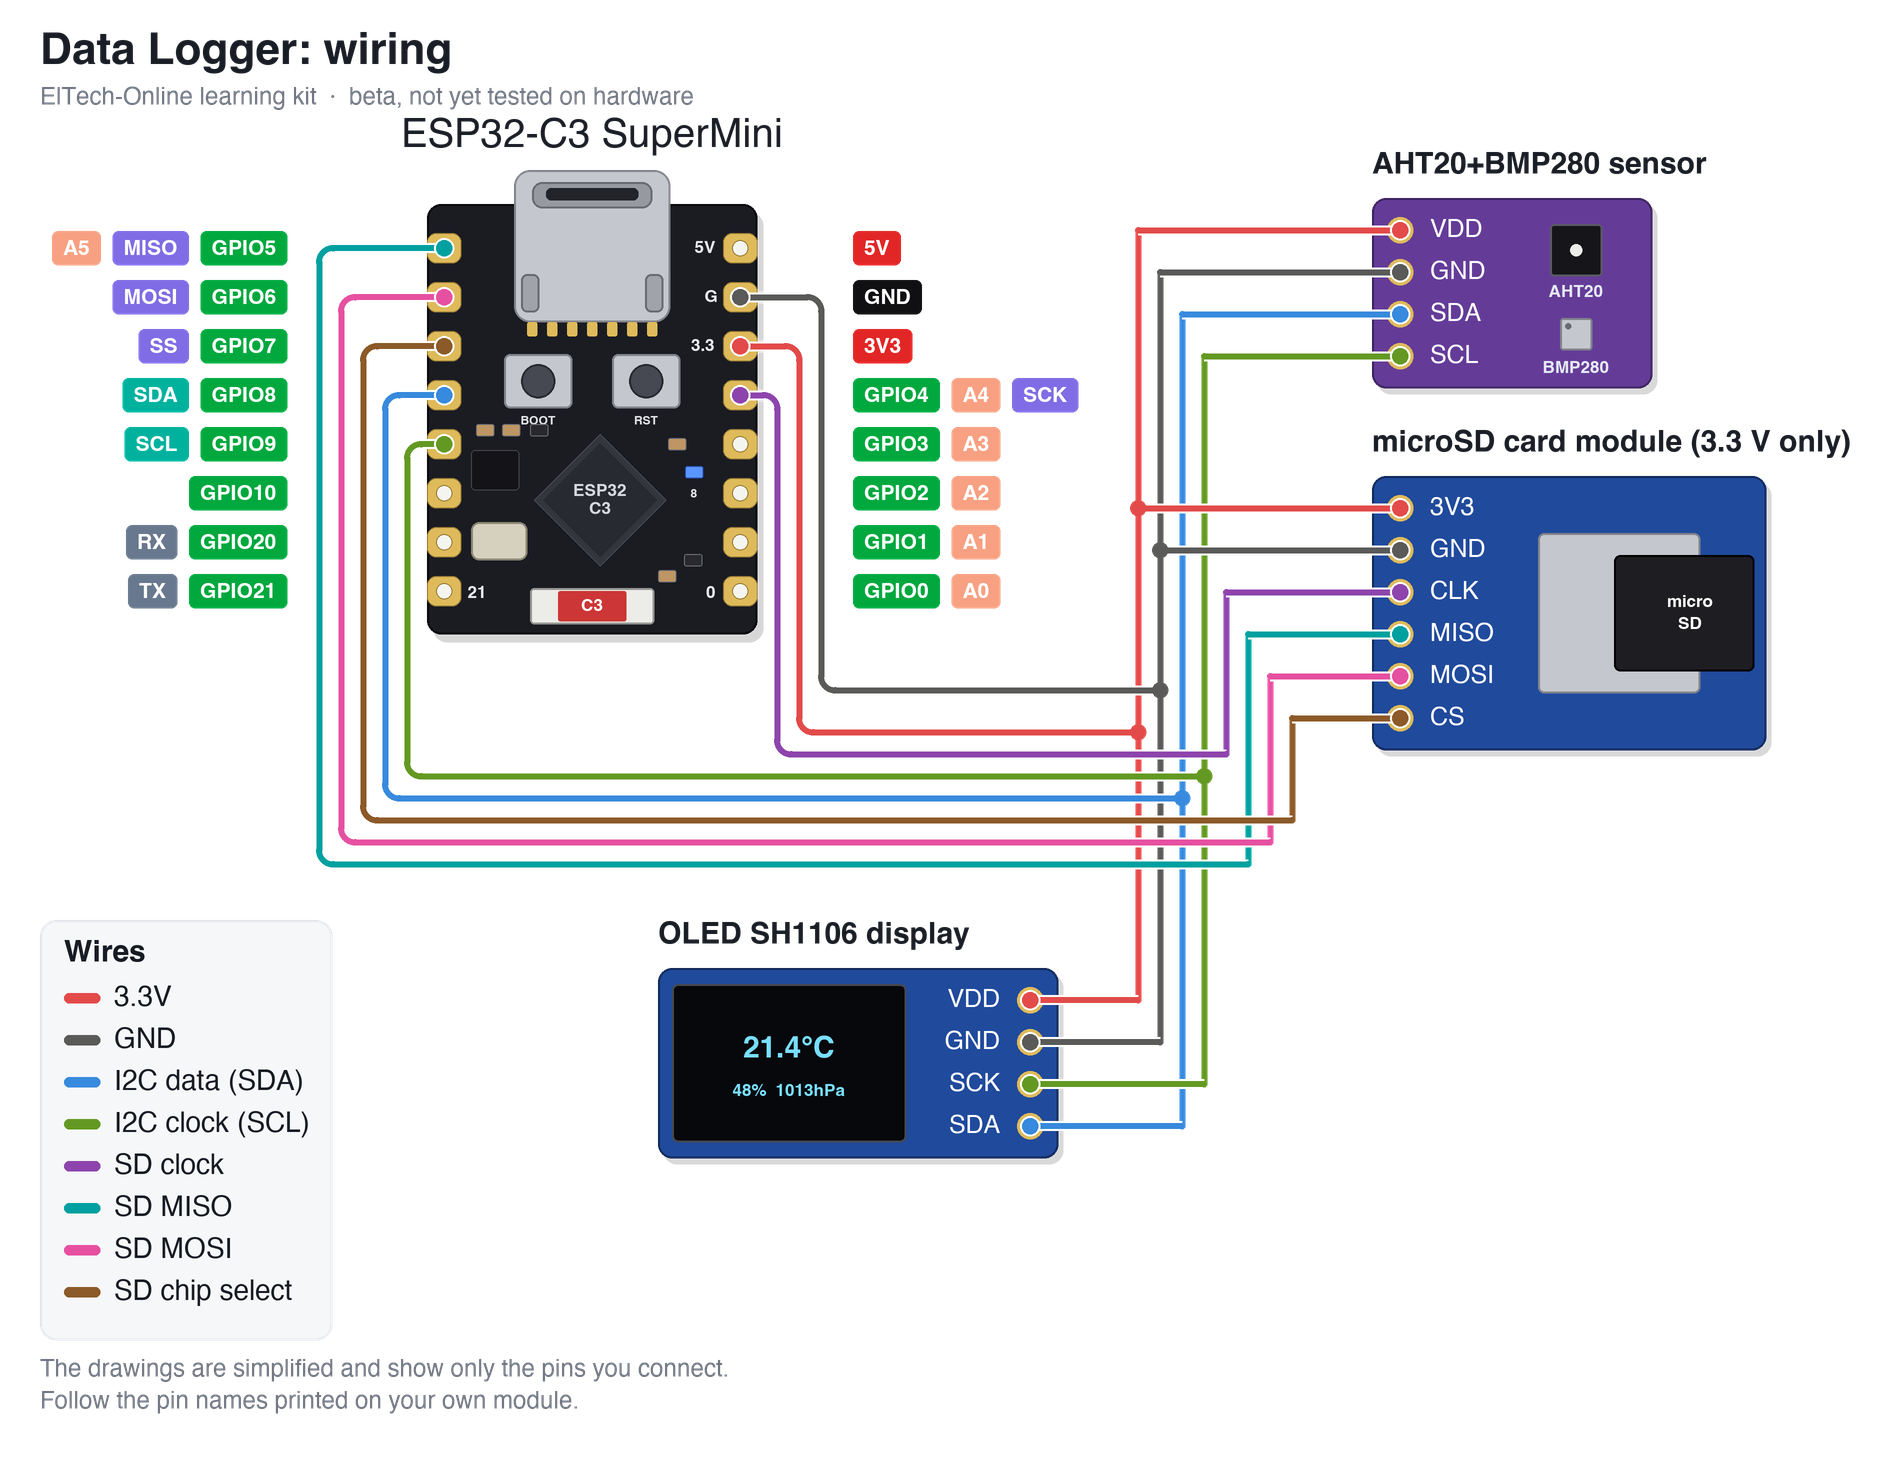
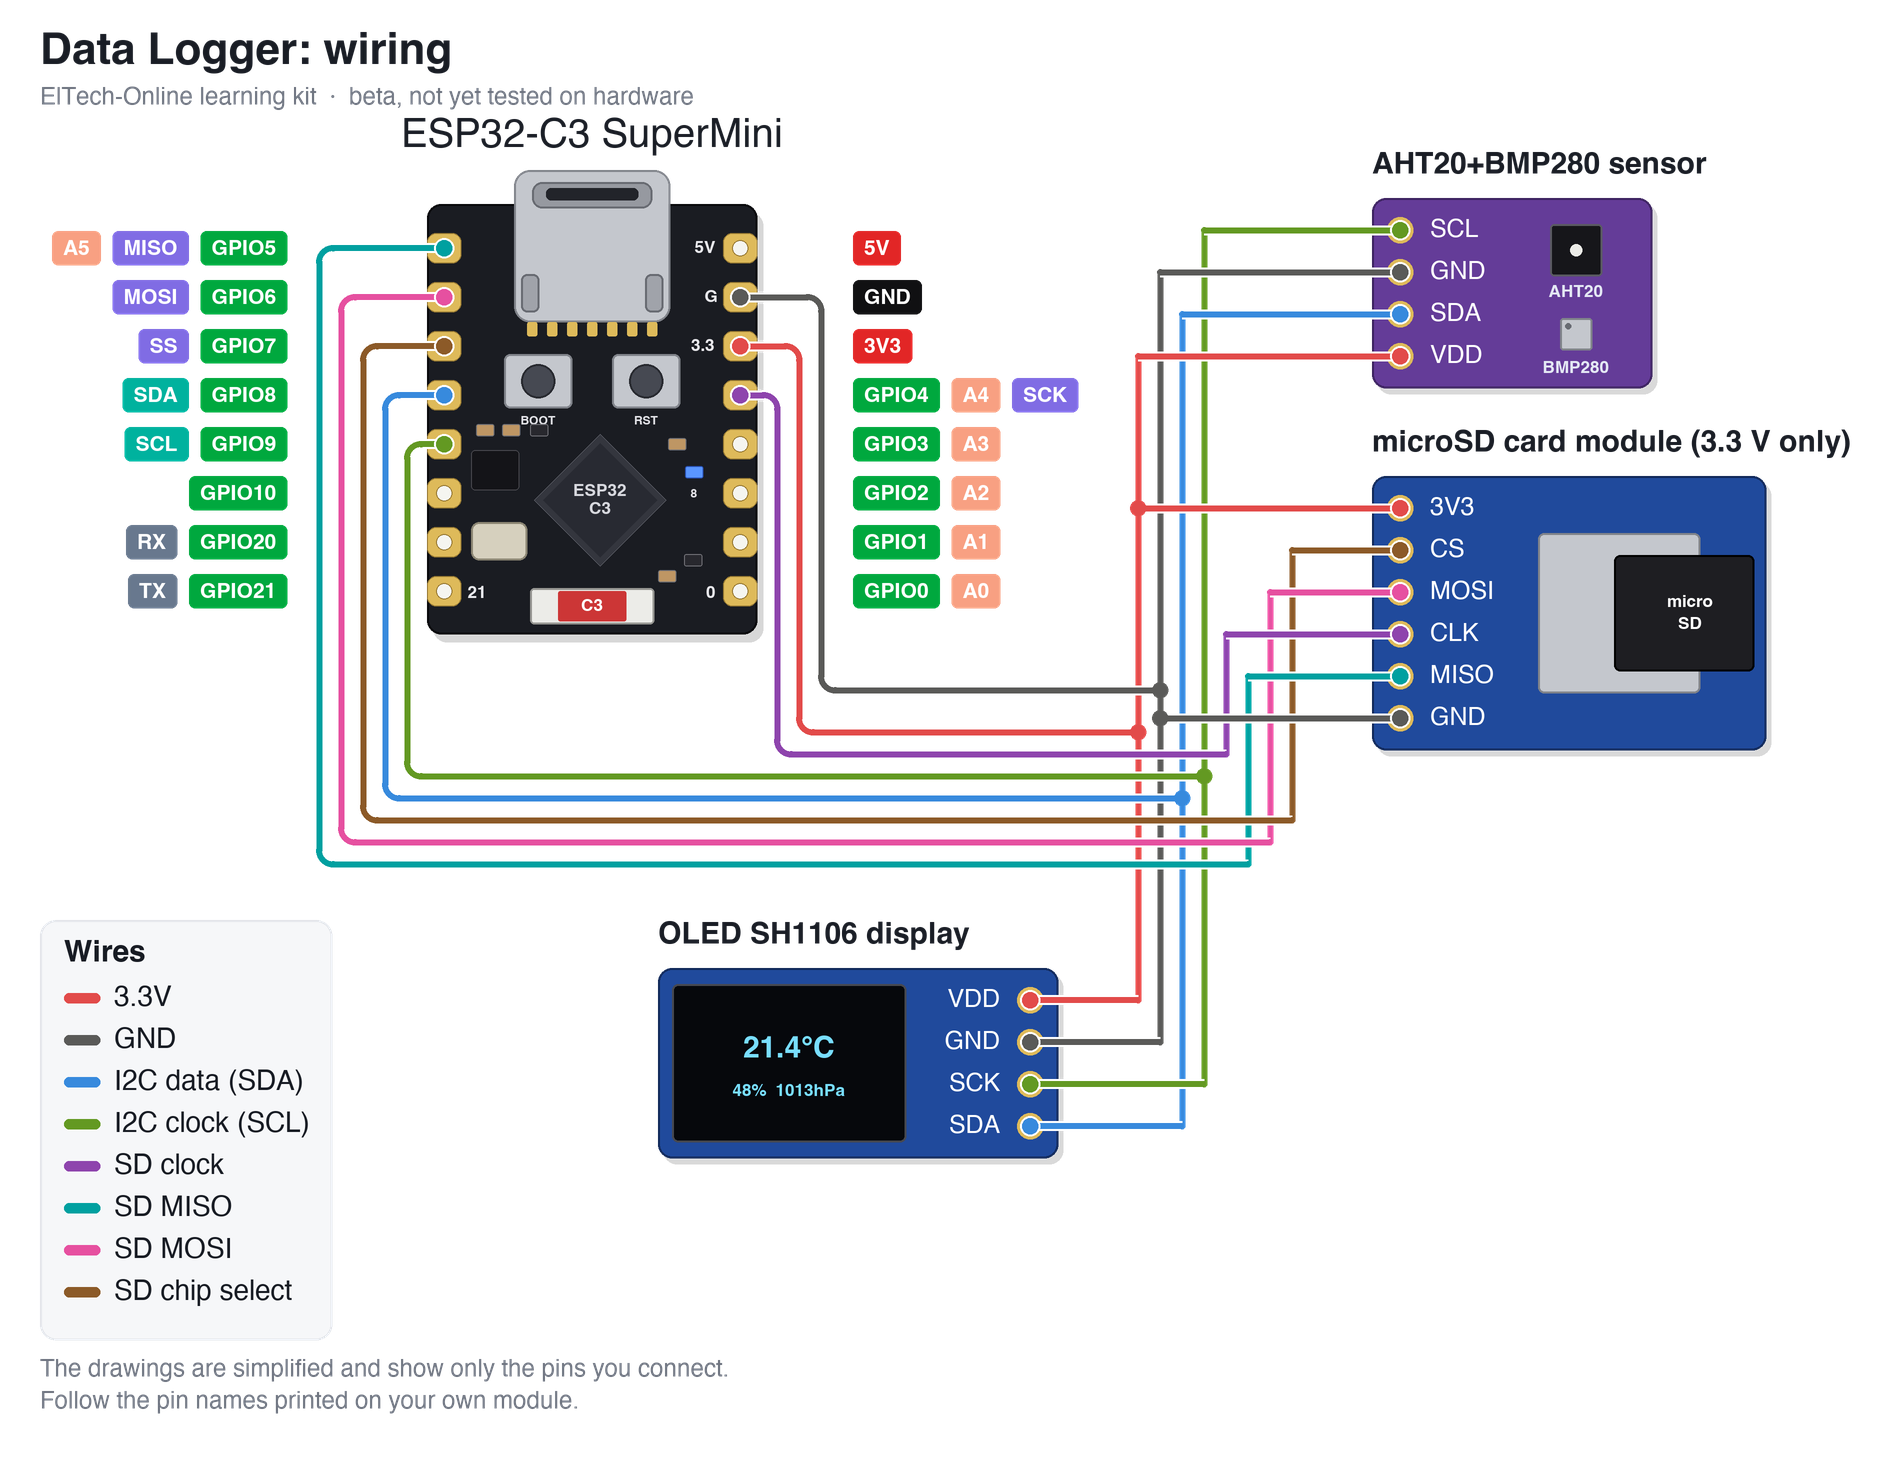
Wiring diagram: list each module's pins in the order printed on the board

Changed region(s): [[0.6207, 0.3673, 0.7759, 0.4898], [0.5897, 0.1531, 0.7759, 0.2449]]

diff --git a/README.md b/README.md
@@ -78,7 +78,7 @@ There are **two sketches** in this repo:
 | Component | Notes |
 |---|---|
 | ESP32-C3 SuperMini |  |
-| AHT20+BMP280 sensor module | 4 pins: `VDD`, `SDA`, `GND`, `SCL` |
+| AHT20+BMP280 sensor module | 4 pins: `SCL`, `GND`, `SDA`, `VDD` |
 | microSD card module, 3.3 V type | 6 pins: `3V3`, `CS`, `MOSI`, `CLK`, `MISO`, `GND` |
 | 1.3" OLED, SH1106 driver, 128×64, I2C | Address `0x3C` (try `0x3D` if blank) |
 | Breadboard + jumper wires | 14 wires |
